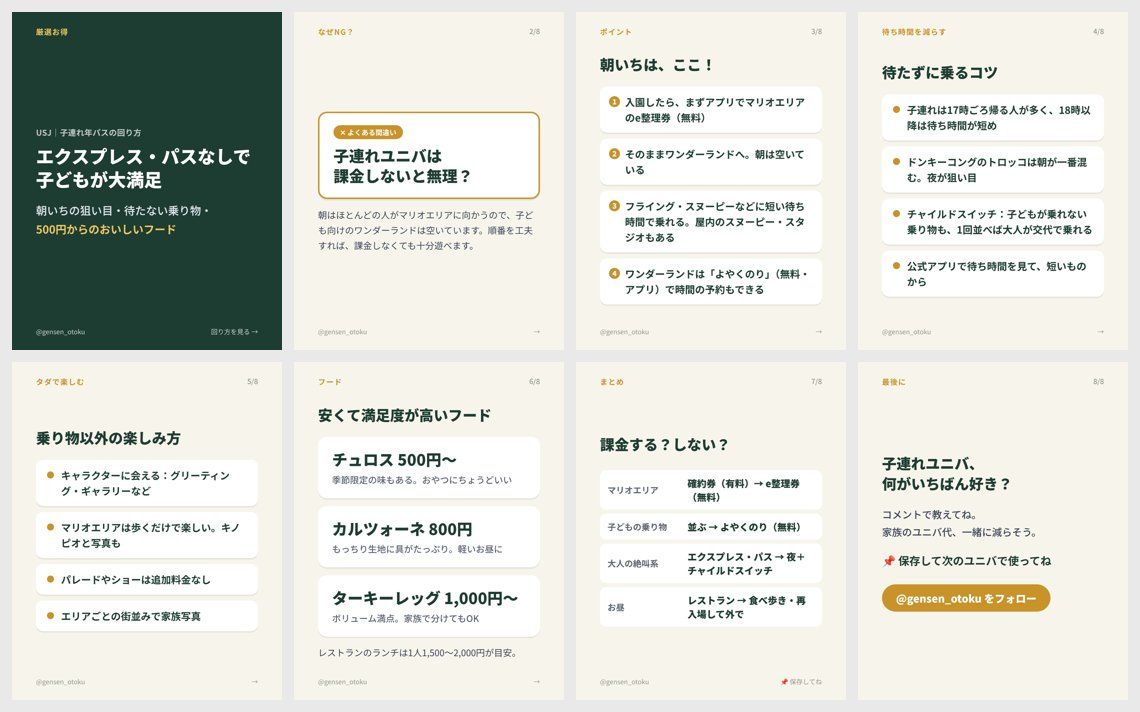
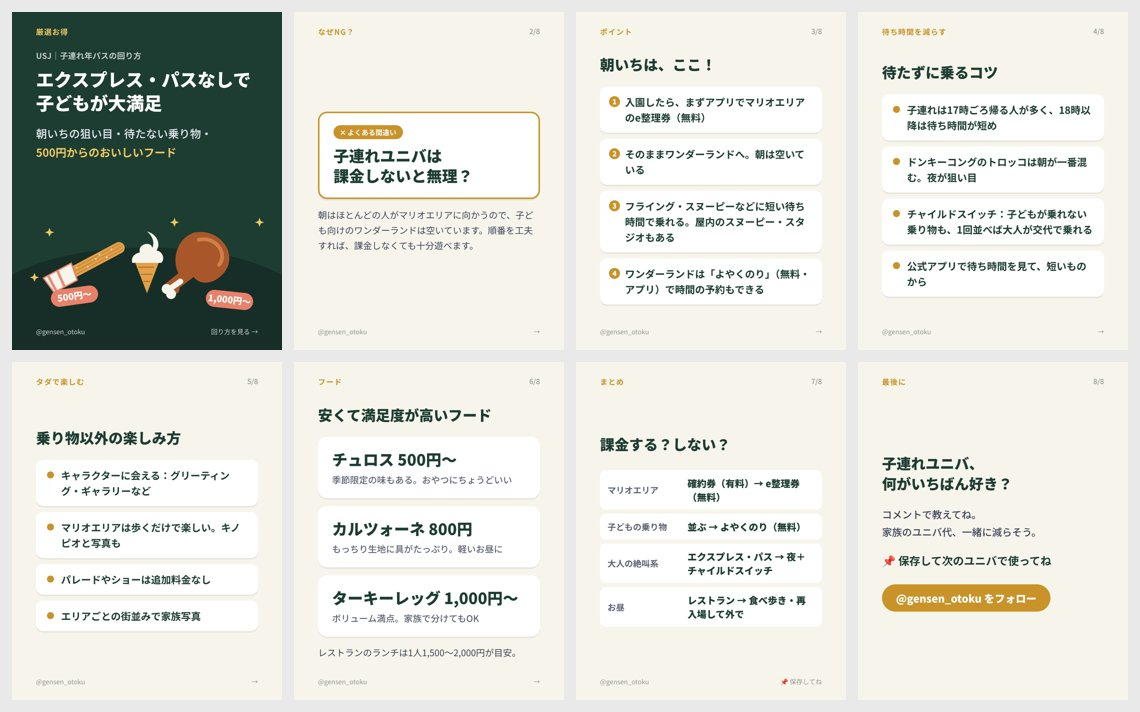
表紙にオリジナルのイラストを入れられるようにする（USJの2本に適用：金額の回は年パス券、コツの回は食べ物）
Claude-Session: https://claude.ai/code/session_01PVzScvUuSifKDsWwfjD7CW

Changed region(s): [[0.0307, 0.0618, 0.2456, 0.4326]]

diff --git a/autopost/style.css b/autopost/style.css
@@ -46,3 +46,13 @@ td:last-child{border-radius:0 24px 24px 0;font-weight:900;font-size:38px}
 .quiz .ans{margin-top:28px;font-size:34px;color:var(--accent-soft);font-weight:700}
 .cta{font-size:44px;line-height:1.8;font-weight:700;margin-top:40px}
 .lead{font-size:40px;line-height:1.75;color:#3a4459;font-weight:500}
+/* 表紙のイラスト（cover の art） */
+.art{position:absolute;left:0;top:0;width:1080px;height:1350px;z-index:0;pointer-events:none}
+.withart .body{position:relative;z-index:1}
+.withart .tag,.withart .foot{z-index:2}
+.withart.top{justify-content:flex-start;padding-top:150px}
+.light.withart{padding:250px 150px 120px}
+.light h1,.light .sub{color:var(--main)}
+.light .kicker{color:var(--accent)}
+.light .big,.light .sub b{color:var(--accent)}
+.light .badge{background:var(--main);color:var(--accent-soft)}

diff --git a/autopost/cover_art.py b/autopost/cover_art.py
@@ -1,0 +1,152 @@
+import html
+import math
+import random
+
+"""表紙に入れるオリジナルのイラスト（cover の "art" で指定）。
+
+特定の作品・キャラクター・ロゴに似せない、汎用のモチーフだけを描く。
+  food      チュロス・ソフトクリーム・ターキーレッグと値段の札（下側）。札の文字は art_labels で変えられる
+  ticket    表紙全体を家族の年パス券に見立てる（明るい券の上に文字をのせる）
+  park      観覧車・ジェットコースター・家族（下側）
+  calendar  カレンダーと積んだ硬貨（右下）
+色はアカウントの theme に合わせて置きかえる。
+"""
+GOLD="#efc75e"; ACC="#c9932a"; CREAM="#f7f4ec"; DARK="#1d3c32"; MINT="#5fb39a"; CORAL="#e8806a"; SKY="#7cc3e8"
+
+def family(x, y, s=1.0, fill=CREAM):
+    # 手をつないだ4人家族のシルエット（大人2・子ども2）
+    def person(cx, h, r):
+        return (f'<circle cx="{cx}" cy="{y-h-r}" r="{r}" fill="{fill}"/>'
+                f'<rect x="{cx-r*0.95}" y="{y-h+r*0.15}" width="{r*1.9}" height="{h*0.62}" rx="{r*0.9}" fill="{fill}"/>'
+                f'<rect x="{cx-r*0.75}" y="{y-h*0.45}" width="{r*0.6}" height="{h*0.45}" rx="{r*0.3}" fill="{fill}"/>'
+                f'<rect x="{cx+r*0.15}" y="{y-h*0.45}" width="{r*0.6}" height="{h*0.45}" rx="{r*0.3}" fill="{fill}"/>')
+    ppl = [(0,150,26),(78,98,20),(140,82,18),(205,150,26)]
+    out = f'<g transform="translate({x},{0}) scale({s}) " >'
+    out=''
+    g=''
+    for dx,h,r in ppl:
+        g+=person(x+dx*s, h*s, r*s)
+    # つないだ手
+    g+=f'<path d="M{x+20*s} {y-95*s} Q{x+50*s} {y-70*s} {x+62*s} {y-62*s} M{x+95*s} {y-62*s} Q{x+110*s} {y-55*s} {x+124*s} {y-55*s} M{x+156*s} {y-55*s} Q{x+175*s} {y-70*s} {x+186*s} {y-95*s}" stroke="{fill}" stroke-width="{9*s}" fill="none" stroke-linecap="round"/>'
+    return g
+
+def balloon(x,y,r,c):
+    return (f'<path d="M{x} {y+r} q-10 40 6 80" stroke="{CREAM}" stroke-width="3" fill="none" opacity=".7"/>'
+            f'<ellipse cx="{x}" cy="{y}" rx="{r*0.85}" ry="{r}" fill="{c}"/>'
+            f'<ellipse cx="{x-r*0.3}" cy="{y-r*0.35}" rx="{r*0.18}" ry="{r*0.28}" fill="#fff" opacity=".45"/>'
+            f'<path d="M{x-6} {y+r+6} l6 -8 l6 8z" fill="{c}"/>')
+
+def park_skyline():
+    # 観覧車・ジェットコースター・旗・風船・家族（汎用の遊園地）
+    w=1080; base=1350
+    spokes=''.join(f'<line x1="830" y1="930" x2="{830+150*__import__("math").cos(a*__import__("math").pi/6):.1f}" y2="{930+150*__import__("math").sin(a*__import__("math").pi/6):.1f}" stroke="{GOLD}" stroke-width="5"/>' for a in range(12))
+    import math
+    cabins=''.join(f'<rect x="{830+150*math.cos(a*math.pi/6)-14:.1f}" y="{930+150*math.sin(a*math.pi/6)-6:.1f}" width="28" height="26" rx="8" fill="{[CORAL,SKY,MINT,GOLD][a%4]}"/>' for a in range(12))
+    flags=''.join(f'<path d="M{100+i*60} {1040+ (i%2)*10} l30 0 l-15 32z" fill="{[CORAL,GOLD,SKY,MINT][i%4]}"/>' for i in range(8))
+    return f'''
+<svg class="art" viewBox="0 0 1080 1350" xmlns="http://www.w3.org/2000/svg">
+  <circle cx="830" cy="930" r="150" fill="none" stroke="{GOLD}" stroke-width="8"/>
+  {spokes}{cabins}
+  <path d="M770 1230 L830 930 L890 1230" stroke="{GOLD}" stroke-width="10" fill="none"/>
+  <path d="M60 1180 C180 1180 220 980 330 980 C420 980 400 1110 470 1110 C540 1110 560 1020 640 1030" stroke="{CORAL}" stroke-width="10" fill="none"/>
+  <path d="M60 1205 C180 1205 220 1005 330 1005 C420 1005 400 1135 470 1135 C540 1135 560 1045 640 1055" stroke="{CORAL}" stroke-width="6" fill="none" opacity=".7"/>
+  {''.join(f'<line x1="{x}" y1="{y}" x2="{x}" y2="1240" stroke="{CORAL}" stroke-width="5" opacity=".6"/>' for x,y in [(150,1150),(250,1030),(330,1000),(420,1060),(520,1100),(600,1035)])}
+  <path d="M100 1035 Q340 1080 580 1030" stroke="{CREAM}" stroke-width="3" fill="none" opacity=".6"/>
+  {flags}
+  {balloon(960,1060,34,CORAL)}{balloon(1010,1110,28,SKY)}
+  <rect x="0" y="1238" width="1080" height="112" fill="#000" fill-opacity=".22"/>
+  {family(380,1240,1.0)}
+</svg>'''
+
+def churro(x,y,ang,s=1):
+    ridges=''.join(f'<line x1="{-150}" y1="{dy}" x2="{150}" y2="{dy}" stroke="#b5701c" stroke-width="3" opacity=".7"/>' for dy in (-12,0,12))
+    sugar=''.join(f'<circle cx="{cx}" cy="{cy}" r="3" fill="#fff" opacity=".8"/>' for cx,cy in [(-120,-8),(-80,6),(-40,-10),(0,8),(40,-4),(80,10),(110,-8),(-100,10),(60,-12)])
+    return (f'<g transform="translate({x},{y}) rotate({ang}) scale({s})">'
+            f'<rect x="-160" y="-22" width="320" height="44" rx="22" fill="#e2a04a"/>{ridges}{sugar}'
+            f'<path d="M-170 -34 h120 l-10 68 h-100z" fill="{CREAM}"/><path d="M-170 -34 h120 l-10 68 h-100z" fill="none" stroke="{CORAL}" stroke-width="5"/>'
+            f'<line x1="-150" y1="-34" x2="-150" y2="34" stroke="{CORAL}" stroke-width="10" opacity=".9"/><line x1="-110" y1="-34" x2="-115" y2="34" stroke="{CORAL}" stroke-width="10" opacity=".9"/>'
+            '</g>')
+
+def turkey(x,y,ang,s=1):
+    return (f'<g transform="translate({x},{y}) rotate({ang}) scale({s})">'
+            f'<path d="M-40 -90 C40 -120 120 -40 70 30 C40 70 0 70 -20 50 L-60 90 C-55 110 -80 125 -92 110 C-110 118 -125 95 -108 85 L-70 45 C-95 10 -95 -60 -40 -90z" fill="#a8562a"/>'
+            f'<path d="M-20 -70 C30 -90 80 -40 55 0" stroke="#d98a4e" stroke-width="12" fill="none" stroke-linecap="round" opacity=".8"/>'
+            f'<circle cx="-100" cy="100" r="16" fill="{CREAM}"/><circle cx="-84" cy="114" r="16" fill="{CREAM}"/><path d="M-90 98 L-60 70" stroke="{CREAM}" stroke-width="18" stroke-linecap="round"/>'
+            '</g>')
+
+def softserve(x,y,s=1):
+    return (f'<g transform="translate({x},{y}) scale({s})">'
+            f'<path d="M-50 0 L0 130 L50 0z" fill="#e2a04a"/><path d="M-36 20 L30 20 M-26 50 L22 50 M-16 80 L14 80" stroke="#b5701c" stroke-width="4"/>'
+            f'<path d="M-62 2 C-70 -30 -40 -40 -30 -42 C-40 -80 20 -90 22 -60 C40 -100 0 -130 0 -130 C40 -120 60 -80 40 -50 C70 -45 75 -10 60 2z" fill="{CREAM}"/>'
+            '</g>')
+
+def tag(x,y,text,ang=-6):
+    return (f'<g transform="translate({x},{y}) rotate({ang})"><rect x="-95" y="-34" width="190" height="68" rx="34" fill="{CORAL}"/>'
+            f'<text x="0" y="13" font-size="36" font-weight="900" fill="#fff" text-anchor="middle" font-family="Noto Sans CJK JP">{text}</text></g>')
+
+def food(labels=('500円〜', '1,000円〜')):
+    sparkles=''.join(f'<path d="M{x} {y-18} L{x+5} {y-5} L{x+18} {y} L{x+5} {y+5} L{x} {y+18} L{x-5} {y+5} L{x-18} {y} L{x-5} {y-5}z" fill="{GOLD}"/>' for x,y in [(150,880),(990,840),(650,840),(90,1060)])
+    return f'''
+<svg class="art" viewBox="0 0 1080 1350" xmlns="http://www.w3.org/2000/svg">
+  <ellipse cx="540" cy="1200" rx="660" ry="260" fill="#000" fill-opacity=".22"/>
+  {churro(300,1010,-28,1.05)}
+  {turkey(760,1000,8,1.25)}
+  {softserve(540,1000,0.95)}
+  {tag(250,1135,html.escape(labels[0]),-8)}{tag(870,1150,html.escape(labels[1]),6)}
+  {sparkles}
+</svg>'''
+
+def ticket_bg():
+    holes=''.join(f'<circle cx="{x}" cy="1010" r="7" fill="{DARK}" opacity=".25"/>' for x in range(150,940,34))
+    return f'''
+<svg class="art back" viewBox="0 0 1080 1350" xmlns="http://www.w3.org/2000/svg">
+  <path d="M70 150 H1010 V1010 a46 46 0 0 0 0 92 V1240 H70 V1102 a46 46 0 0 0 0 -92z" fill="{CREAM}"/>
+  <path d="M70 150 H1010 V230 H70z" fill="{GOLD}"/>
+  <text x="110" y="208" font-size="40" font-weight="900" fill="{DARK}" font-family="Noto Sans CJK JP" letter-spacing="6">ANNUAL PASS ｜ FAMILY</text>
+  {holes}
+  {family(130,1215,0.62,DARK)}
+  <text x="400" y="1150" font-size="34" font-weight="700" fill="{DARK}" opacity=".7" font-family="Noto Sans CJK JP">ADULT ×2　CHILD ×2</text>
+  <text x="400" y="1205" font-size="30" fill="{DARK}" opacity=".5" font-family="Noto Sans CJK JP">VALID 1 YEAR</text>
+  <circle cx="900" cy="1160" r="54" fill="none" stroke="{CORAL}" stroke-width="6" opacity=".8"/>
+  <text x="900" y="1172" font-size="34" font-weight="900" fill="{CORAL}" text-anchor="middle" font-family="Noto Sans CJK JP" opacity=".85">OK!</text>
+</svg>'''
+
+def calendar_coins():
+    cells=''
+    import random; random.seed(3)
+    for r in range(4):
+        for c in range(7):
+            cx=640+c*52; cy=1000+r*48
+            mark = random.random()<0.35
+            cells+=f'<rect x="{cx}" y="{cy}" width="40" height="36" rx="8" fill="{GOLD if mark else "#e8e2d2"}"/>'
+            if mark: cells+=f'<path d="M{cx+10} {cy+18} l7 7 l13 -14" stroke="{DARK}" stroke-width="5" fill="none" stroke-linecap="round"/>'
+    coins=''.join(f'<ellipse cx="180" cy="{1230-i*26}" rx="80" ry="24" fill="{GOLD}" stroke="{ACC}" stroke-width="5"/>' for i in range(6))
+    coins+=''.join(f'<ellipse cx="350" cy="{1230-i*26}" rx="80" ry="24" fill="{GOLD}" stroke="{ACC}" stroke-width="5"/>' for i in range(4))
+    return f'''
+<svg class="art" viewBox="0 0 1080 1350" xmlns="http://www.w3.org/2000/svg">
+  <rect x="610" y="900" width="400" height="320" rx="28" fill="{CREAM}" transform="rotate(4 810 1060)"/>
+  <g transform="rotate(4 810 1060)">
+  <rect x="610" y="900" width="400" height="80" rx="28" fill="{CORAL}"/><rect x="610" y="950" width="400" height="30" fill="{CORAL}"/>
+  <text x="810" y="958" font-size="42" font-weight="900" fill="#fff" text-anchor="middle" font-family="Noto Sans CJK JP">いつでもOK</text>
+  {cells}
+  <circle cx="680" cy="900" r="12" fill="{DARK}"/><circle cx="940" cy="900" r="12" fill="{DARK}"/>
+  </g>
+  {coins}
+  <text x="350" y="1168" font-size="34" font-weight="900" fill="{ACC}" text-anchor="middle" font-family="Noto Sans CJK JP">¥</text>
+</svg>'''
+
+
+ARTS = ("food", "ticket", "park", "calendar")
+# 文字を上に寄せるか、明るい券の上に文字をのせるか
+ART_CLASS = {"food": "withart top", "ticket": "withart top light", "park": "withart top", "calendar": "withart top"}
+
+
+def svg(name: str, theme: dict, labels=None) -> str:
+    if name == "food":
+        out = food(tuple(labels) if labels and len(labels) == 2 else ("500円〜", "1,000円〜"))
+    else:
+        out = {"ticket": ticket_bg, "park": park_skyline, "calendar": calendar_coins}[name]()
+    # 基本の色（厳選お得の配色）をアカウントの配色に置きかえる
+    for default, key in ((DARK, "main"), (CREAM, "base"), (GOLD, "accent_soft"), (ACC, "accent")):
+        out = out.replace(default, theme.get(key, default))
+    return out

diff --git a/autopost/templates.py b/autopost/templates.py
@@ -2,7 +2,9 @@
 
 スライドの種類（layout）:
   cover   表紙（濃い背景）。kicker（小さな前置き） / top / ng / bottom / big（大きな数字） / sub /
-          badge（期限などのバッジ） / foot（右下の文字。初期値「スワイプ →」）
+          badge（期限などのバッジ） / foot（右下の文字。初期値「スワイプ →」） /
+          art（オリジナルのイラスト。food / ticket / park / calendar。cover_art.py の説明を参照） /
+          art_labels（food の値段の札2つ）
   callout よくある間違い・ポイントを大きなカードで。label / title / body / note / style(ng|ok)
   cards   フレーズや項目のカード（1〜3個）。title / cards[[大きい文字, 小さい文字]] / note
   points  箇条書き（1〜6個）。title / points / note / numbered
@@ -16,6 +18,8 @@ from __future__ import annotations
 import html
 import re
 from pathlib import Path
+
+from . import cover_art
 
 CSS = (Path(__file__).resolve().parent / "style.css").read_text(encoding="utf-8")
 CIRCLED = "①②③④⑤⑥⑦⑧⑨⑩"
@@ -87,7 +91,12 @@ class _Builder:
             inner += f'<p class="sub">{esc(s["sub"])}</p>'
         if s.get("badge"):
             inner += f'<div><span class="badge">{esc(s["badge"])}</span></div>'
-        return self.frame(i, "cover", esc(s.get("tag", default_tag)), inner, esc(s.get("foot", "スワイプ →")))
+        html_ = self.frame(i, "cover", esc(s.get("tag", default_tag)), inner, esc(s.get("foot", "スワイプ →")))
+        art = s.get("art")
+        if art in cover_art.ARTS:
+            pic = cover_art.svg(art, self.cfg["theme"], s.get("art_labels"))
+            html_ = html_.replace('<section class="s cover">', f'<section class="s cover {cover_art.ART_CLASS[art]}">{pic}', 1)
+        return html_
 
     def callout(self, i: int, s: dict) -> str:
         style = s.get("style", "ng")

diff --git a/autopost/validate.py b/autopost/validate.py
@@ -13,10 +13,10 @@ from pathlib import Path
 
 import re
 
-from . import config, posts, story
+from . import config, cover_art, posts, story
 
 LAYOUT_FIELDS = {
-    "cover": ({"top"}, {"kicker", "ng", "bottom", "big", "sub", "badge", "foot", "tag", "top_size", "ng_size", "big_size"}),
+    "cover": ({"top"}, {"kicker", "ng", "bottom", "big", "sub", "badge", "foot", "tag", "top_size", "ng_size", "big_size", "art", "art_labels"}),
     "callout": ({"title"}, {"label", "body", "note", "style", "tag"}),
     "cards": ({"title", "cards"}, {"note", "tag"}),
     "points": ({"title", "points"}, {"note", "tag", "numbered"}),
@@ -53,6 +53,12 @@ def _check_slide(i: int, s, errors: list[str]) -> None:
     unknown = set(s) - required - optional - {"layout"}
     if unknown:
         errors.append(f"{i}枚目（{layout}）: 使えない項目があります: {', '.join(sorted(unknown))}")
+    if layout == "cover" and "art" in s and s["art"] not in cover_art.ARTS:
+        errors.append(f"{i}枚目（cover）: art は {' / '.join(cover_art.ARTS)} のどれかにしてください")
+    if layout == "cover" and "art_labels" in s:
+        lb = s["art_labels"]
+        if not (isinstance(lb, list) and len(lb) == 2 and all(isinstance(x, str) and len(x) <= 7 for x in lb)):
+            errors.append(f"{i}枚目（cover）: art_labels は7文字以内の文字を2つにしてください")
     if layout == "callout" and s.get("style", "ng") not in ("ng", "ok"):
         errors.append(f"{i}枚目（callout）: style は ng か ok にしてください")
     if layout == "cards":

diff --git a/tests/test_autopost.py b/tests/test_autopost.py
@@ -217,3 +217,20 @@ class InstagramTest(unittest.TestCase):
 
 if __name__ == "__main__":
     unittest.main()
+
+
+class CoverArtTest(unittest.TestCase):
+    def test_art_is_drawn_and_validated(self):
+        from autopost import templates, validate, cover_art
+        cfg = {"display_handle": "@x", "series": "S",
+               "theme": {"main": "#111111", "base": "#eeeeee", "accent": "#aa0000", "accent_soft": "#ffcc00", "muted": "#888888"}}
+        for art in cover_art.ARTS:
+            html = templates.build_html({"slides": [{"layout": "cover", "top": "T", "art": art}]}, cfg)
+            self.assertIn('class="art', html)
+            self.assertIn("withart", html)
+        errs = []
+        validate._check_slide(1, {"layout": "cover", "top": "T", "art": "mario"}, errs)
+        self.assertTrue(errs)
+        errs = []
+        validate._check_slide(1, {"layout": "cover", "top": "T", "art": "food", "art_labels": ["300円", "800円"]}, errs)
+        self.assertEqual(errs, [])

diff --git a/autopost/posts.py b/autopost/posts.py
@@ -60,7 +60,7 @@ class Post:
 def template_fingerprint() -> str:
     """デザイン（templates.py と style.css）が変わったら作り直すための指紋。"""
     h = hashlib.sha256()
-    for name in ("templates.py", "style.css"):
+    for name in ("templates.py", "style.css", "cover_art.py"):
         h.update((PACKAGE_DIR / name).read_bytes())
     return h.hexdigest()[:12]
 

diff --git a/accounts/gensen_otoku.md b/accounts/gensen_otoku.md
@@ -16,6 +16,12 @@
 - `sub`：補足。強調したい数字は `<b>` で金色になる（例：「口座開設特典と合わせて<br><b>最大 約1万円</b>もらえる」）
 - `badge`：期限など（例：「⏰ 2027年1月31日まで」）
 - `foot`：右下の誘導文（例：「条件と落とし穴 →」）
+- `art`（任意）：表紙に入れるオリジナルのイラスト。テーマに合うときだけ使う
+  - `food`：食べ物と値段の札（お出かけ・外食の回）。札の文字は `art_labels`（例：`["500円〜", "1,000円〜"]`）
+  - `ticket`：表紙全体を家族の年パス券に見立てる（チケット・パス・入場料の回）。文字が多いときは `top_size` 64・`big_size` 150 くらいにする
+  - `park`：観覧車・ジェットコースター・家族（テーマパーク・レジャーの回）
+  - `calendar`：カレンダーと硬貨（毎月の金額・積み立ての回）
+  - 写真・キャラクター・企業のロゴは表紙に使わない
 
 ## 7枚の構成
 
